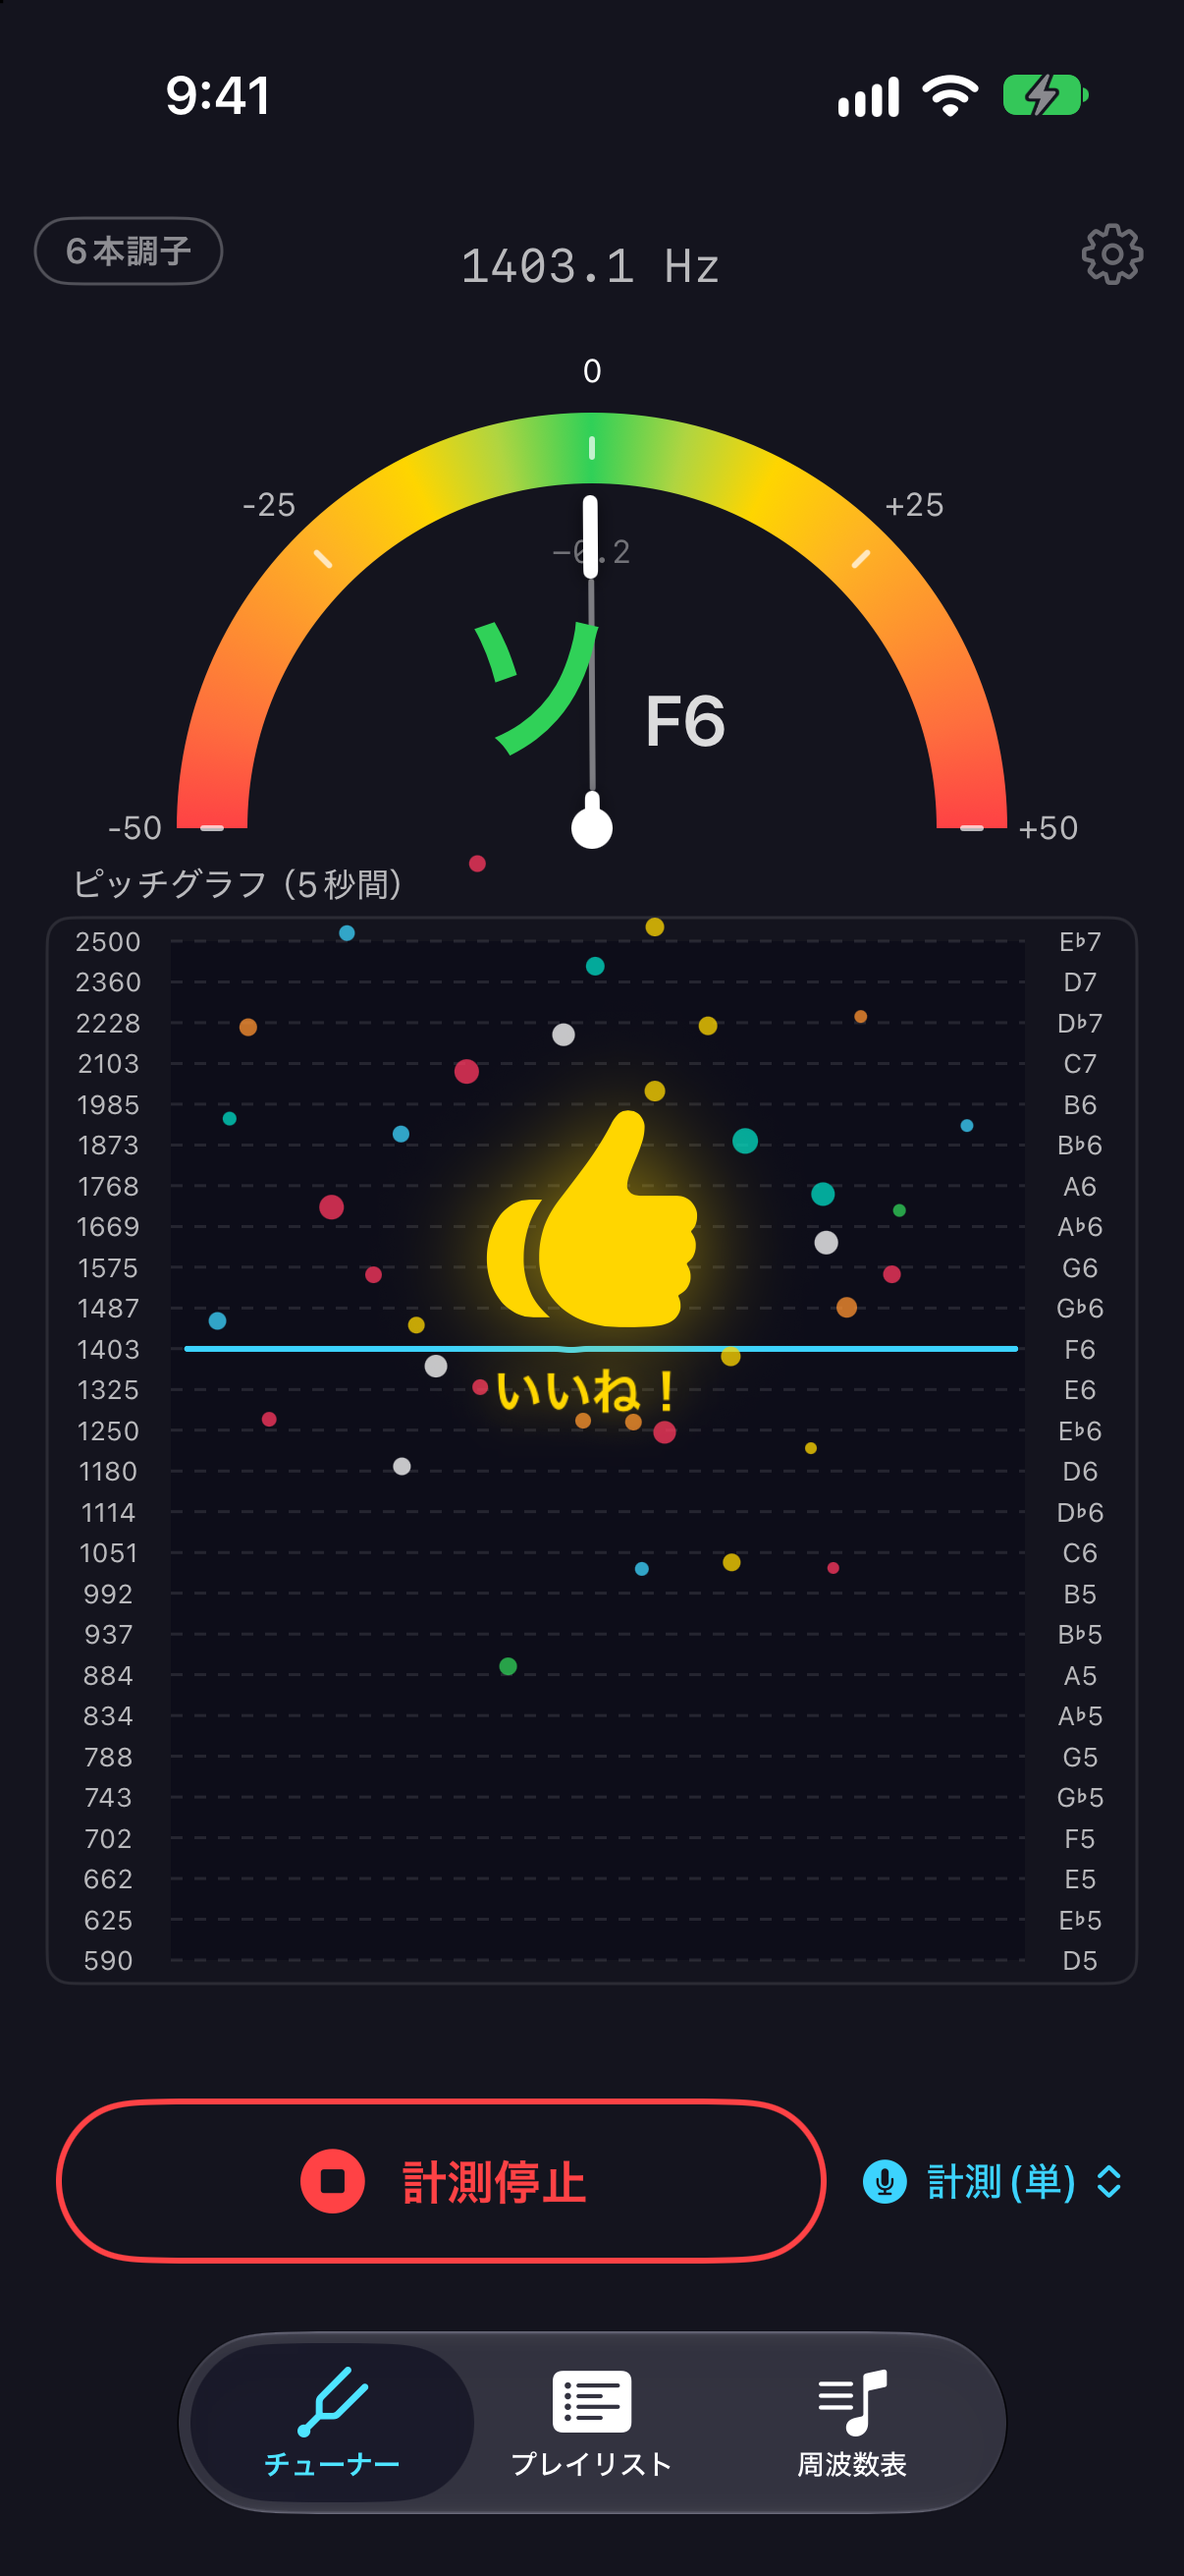
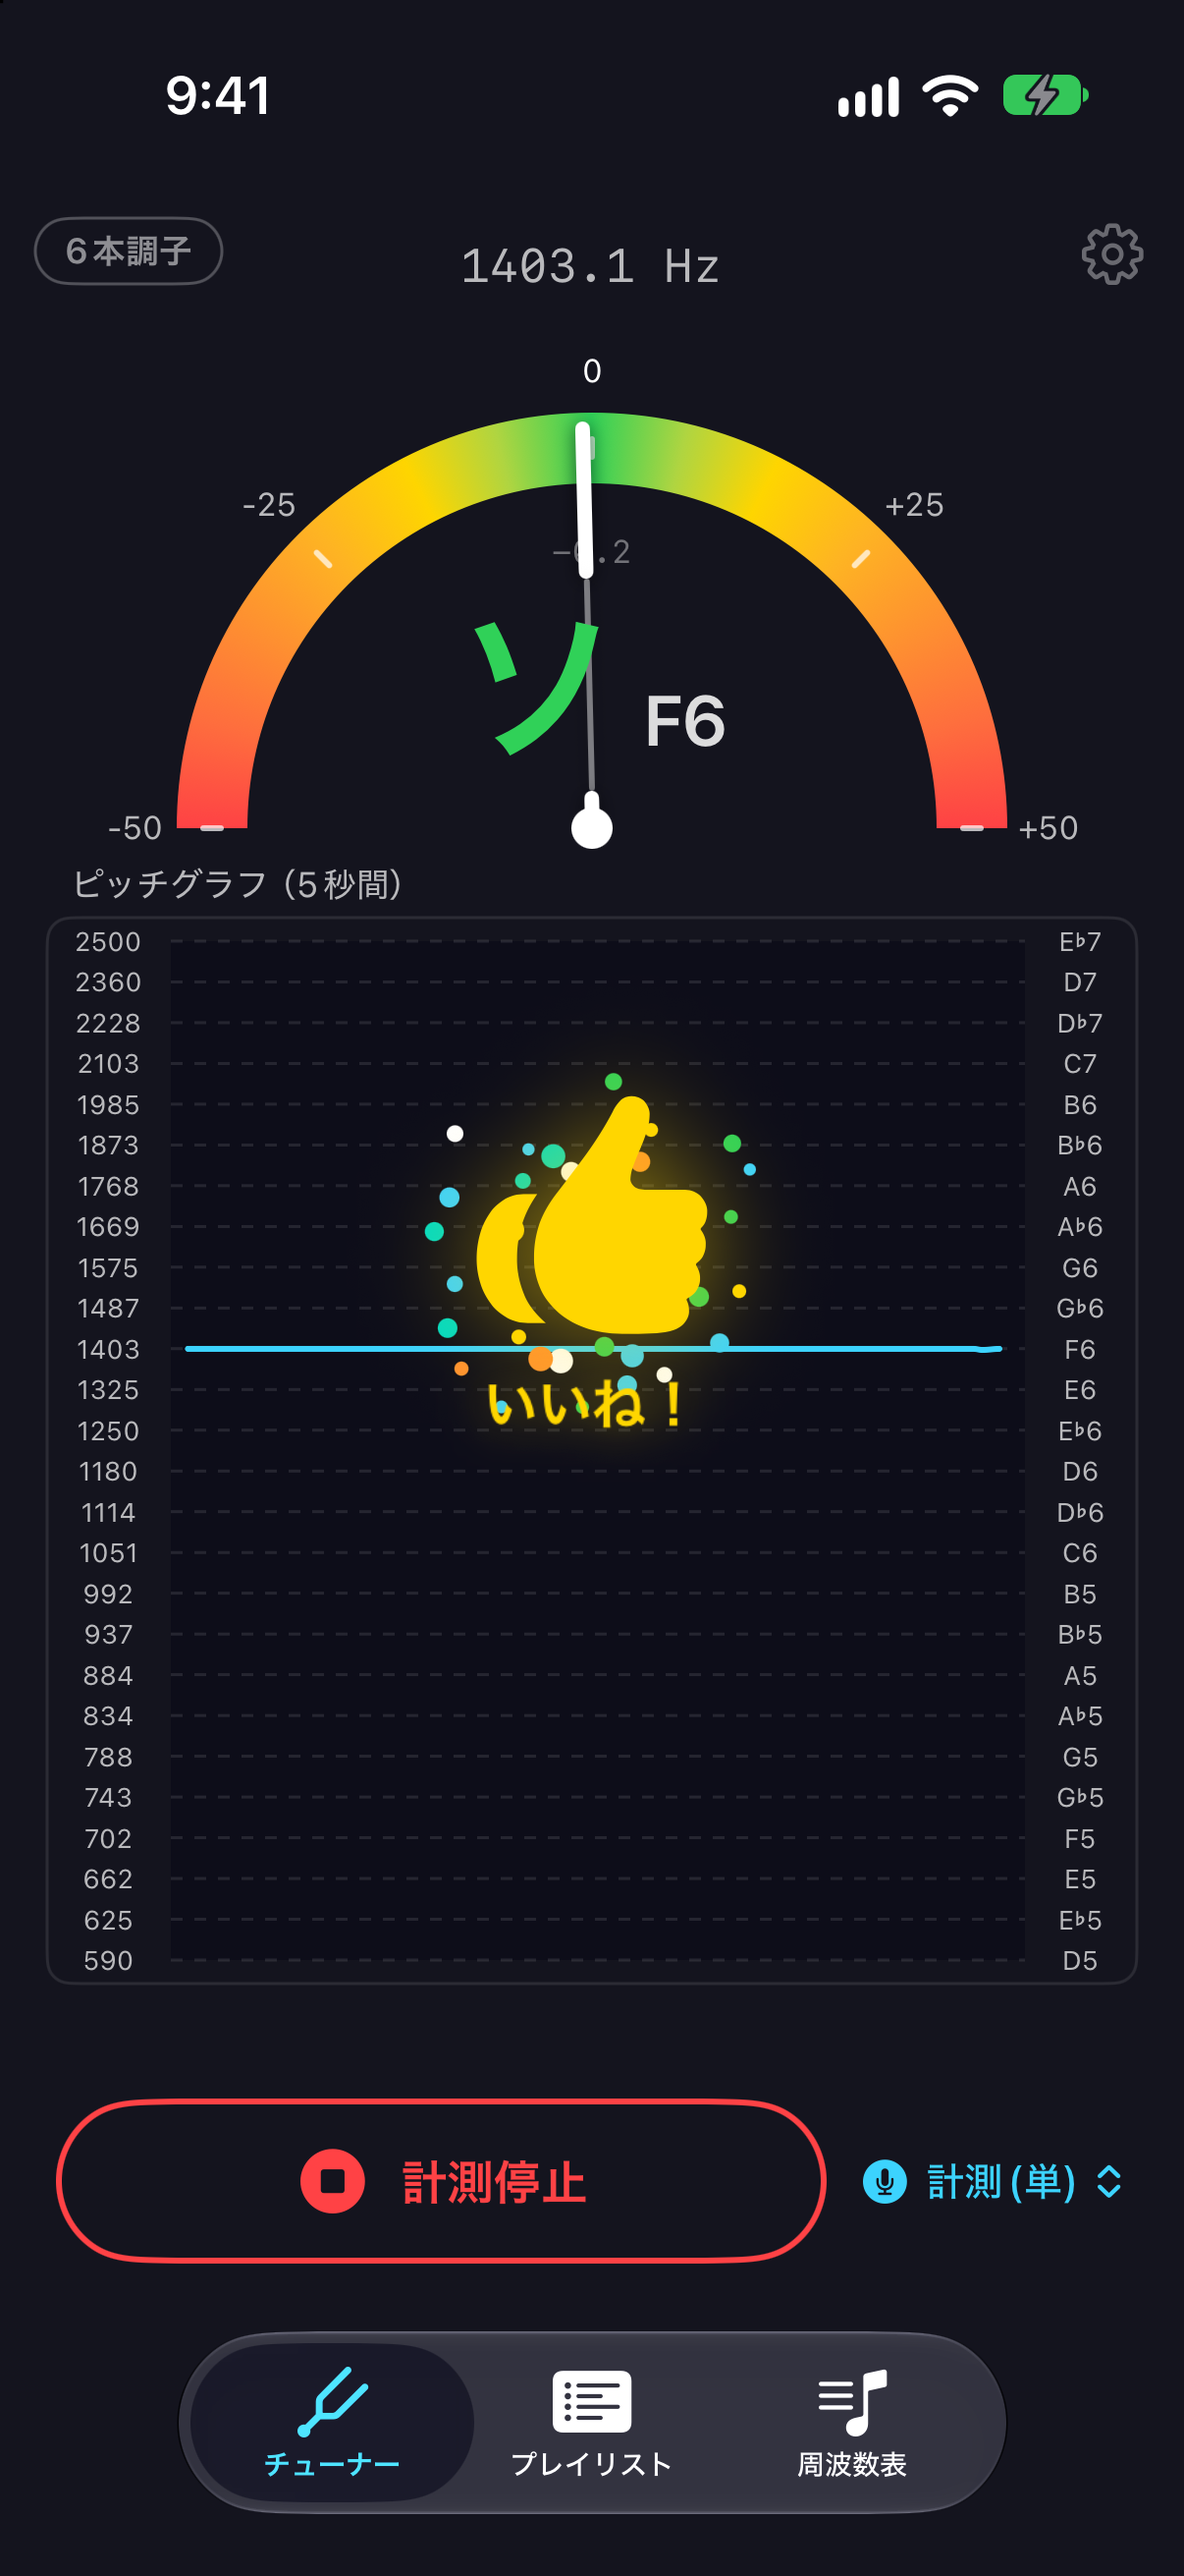
fix: ゲージの針先をアークの帯に重なるまで伸ばす
針先がアークの内側で止まっていたため、どの目盛りを指しているか読み取りにくかった。
針先を帯の外縁手前まで伸ばし、目盛りラベルとの視線移動を短くする。

- 針の長さを radius - stroke/2 - 4 から radius + stroke/2 - 3 に変更する
- 太い先端が約25pt 長くなり、指している位置が明確になる
- スクリーンショット6枚を撮り直す

0セントのときは針が 0 の目盛り線を覆うが、針自身が真上を示すため実用上の問題は
ない。針を帯に重ねる限り避けられないことを確認済み（目盛り線を前面に描いても
幅2pt の線は幅5pt の針に包含されて見えない）。

diff --git a/shinobuetuner/Presentation/View/Turner/TunerGaugeView.swift b/shinobuetuner/Presentation/View/Turner/TunerGaugeView.swift
@@ -177,7 +177,8 @@ struct TunerGaugeView: View {
     /// 中央のメイン表示（階名／運指名）に重なる区間だけを細く薄くして、文字を読めるようにする。
     /// セント値は細い文字なので太いままの先端が重なってよい（可読性に影響しないため）。
     private func needle(radius: CGFloat, pivot: CGPoint) -> some View {
-        let length = radius - stroke / 2 - 4
+        // 針先はアークの帯を横切って外縁の少し手前まで伸ばす（タコメーターらしい見た目にするため）
+        let length = radius + stroke / 2 - 3
         // 中央テキスト全体の上端からメイン表示の上端・下端をピボットからの距離で求める
         let blockTop = radius * centerContentRatio + (mainDisplayHeight + centsRowHeight) / 2
         let thinTop = min(length, blockTop - centsRowHeight)
